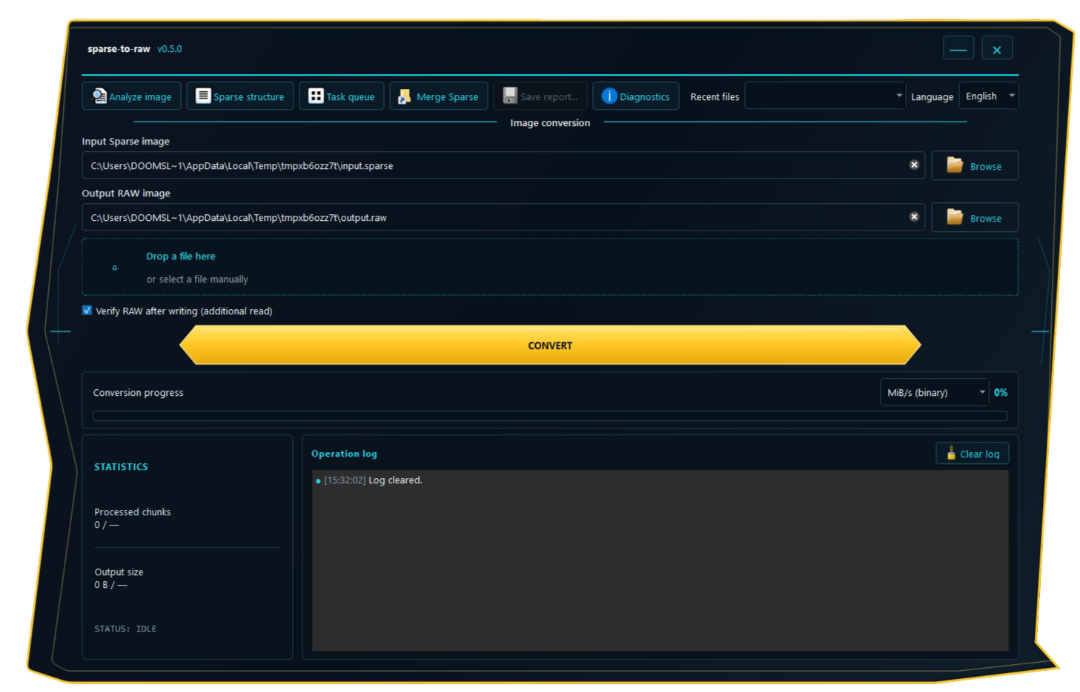
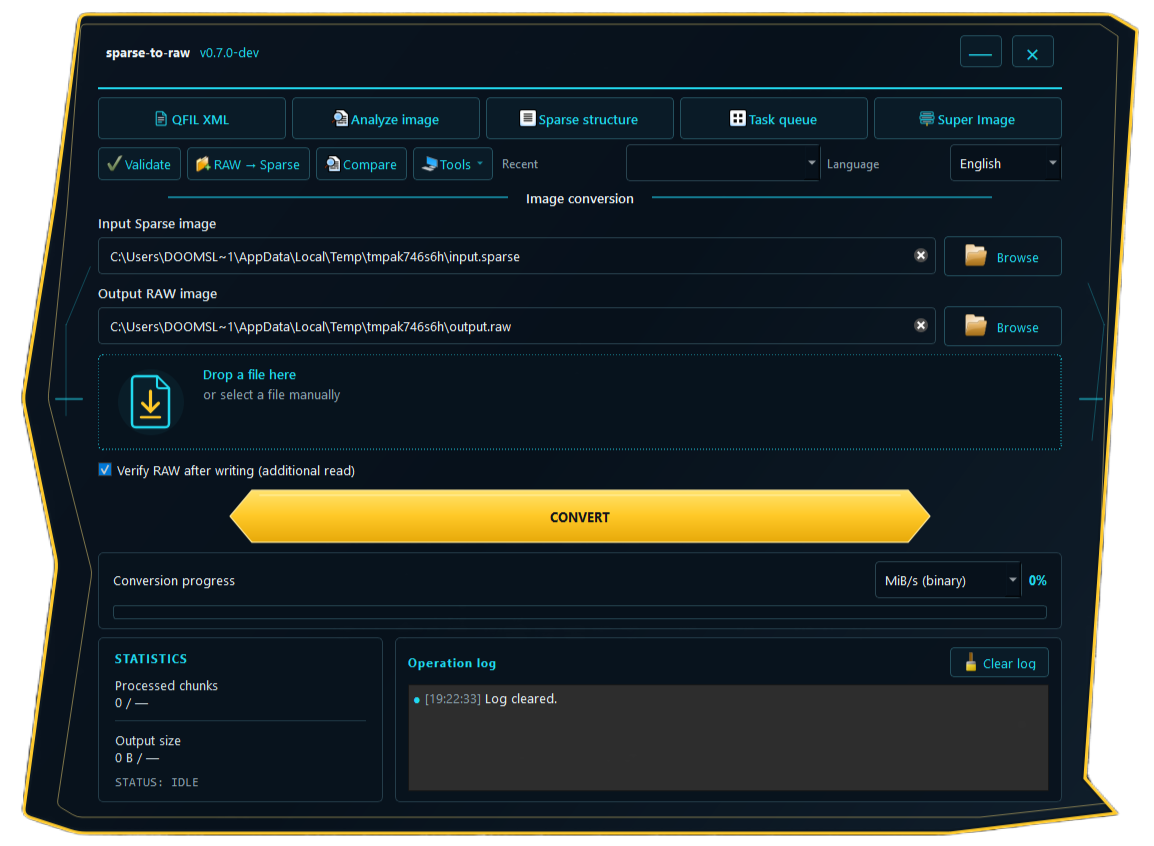
Restore and sync Russian project README

diff --git a/README.ru.md b/README.ru.md
@@ -1,46 +1,186 @@
-# Исправление CLI UTF-8 и GitHub Actions Node.js 24
+# sparse-to-raw
 
-Этот пакет рассчитан на текущую ветку `main` после добавления build-only режима Windows-сборки.
-Он содержит patch, а не полную копию проекта.
+Потоковая утилита для анализа Android Sparse Image v1 и преобразования Sparse-образов в логическое RAW-содержимое. Проект включает CLI на Python без сторонних зависимостей и графический интерфейс PySide6 для Windows.
 
-## Что исправлено
+[![Тесты](https://img.shields.io/github/actions/workflow/status/LIJTA3U/sparse-to-raw/tests.yml?branch=main&label=тесты)](https://github.com/LIJTA3U/sparse-to-raw/actions/workflows/tests.yml)
+[![Python 3.10+](https://img.shields.io/badge/Python-3.10%2B-3776AB?logo=python&logoColor=white)](https://www.python.org/)
+[![Лицензия MIT](https://img.shields.io/badge/license-MIT-green.svg)](LICENSE)
+[![CLI без зависимостей](https://img.shields.io/badge/CLI-зависимости%20не%20нужны-brightgreen.svg)](#требования)
 
-1. `sparse_to_raw.py`: до обработки аргументов CLI оба текстовых потока `stdout` и `stderr` переводятся на UTF-8 через `reconfigure()`. Это предотвращает `UnicodeEncodeError` при показе локализованной справки `argparse` в Windows-сборке, когда исходная кодировка потока — например, `cp1252`.
-2. Добавлен `tests/test_cli_console_encoding.py`: регрессионный тест имитирует потоки `cp1252` и проверяет вывод русской QFIL-справки.
-3. Во всех трёх workflow обновлены `actions/checkout` до v7 и `actions/setup-python` до v7.
-4. В Windows release workflow отложенные шаги публикации обновлены: `actions/github-script` до v8 и `softprops/action-gh-release` до v3.
+**Язык:** [Русский](README.ru.md) · [English](README.md)
 
-## Применение
+> **Статус: разработка v0.7.0; последняя стабильная версия — v0.6.0.** Побайтное сравнение с `simg2img.exe` выполнено на двух реальных заводских образах: `super.img` из прошивки Blackview и `userdata_exp.ai.img` из прошивки Google Pixel. В обоих случаях различий не обнаружено. Инструменты версии 0.7.0 дополнительно проверялись на реальных RAW- и Android Sparse-файлах `super.img` Blackview через CLI и GUI; SHA-256 извлечённых разделов совпали. Также проверен синтетический образ с несколькими extents. Эти проверки подтверждают отдельные сценарии, но не являются полной сертификацией всех форматов и прошивок.
 
-Распакуйте этот архив в любую временную папку. Откройте PowerShell в корне клонированного репозитория и выполните команды, указав путь к patch-файлу, если он находится не в текущем каталоге:
+## Возможности
+
+- Потоковое преобразование Android Sparse Image v1 в логическое RAW-содержимое и кодирование RAW-файлов в Android Sparse v1.0.
+- Поддержка чанков `RAW`, `FILL`, `DONT_CARE` и `CRC32`.
+- Проверка CRC32 каждого чанка, общей контрольной суммы образа, заголовков, размеров блоков и количества блоков, обрезанных данных и лишних байтов в конце. Отдельный Sparse Validator позволяет проверять образ без создания RAW-файла.
+- Анализ и проверка образа без преобразования (`--info`, `--verify-only`).
+- Защита существующих выходных файлов: по умолчанию перезапись запрещена, для неё требуется `--force`.
+- Отображение прогресса, скорости, объёма обработанных данных и количества чанков.
+- Необязательный расчёт SHA-256 логического RAW-содержимого и экспорт JSON-отчётов.
+- Проверка готового временного RAW повторным чтением и сравнением размера и SHA-256 с ожидаемым логическим содержимым (`--verify-output`).
+- Объединение независимых Sparse-образов в явно указанном порядке (`--merge-parts`).
+- Логическое сравнение RAW и/или Android Sparse без промежуточного RAW-файла (`compare`): поиск первого отличающегося байта и расчёт SHA-256 обоих логических содержимых.
+- Сохранение и загрузка версионированных JSON-профилей пакетной обработки для смешанных очередей Sparse → RAW, RAW → Sparse и QFIL.
+- Подробные JSON-отчёты о конвертации, проверке результата, валидации, сравнении, операциях QFIL и пакетной обработке.
+- Анализ Qualcomm QFIL `rawprogram*.xml` / `patch*.xml`, поиск файлов прошивки и сборка отдельного RAW-образа для каждого физического раздела (`qfil-analyze`, `qfil-validate`, `qfil-build`). Preflight проверяет исходные диапазоны и целостность Sparse без создания результатов; инструкции Patch анализируются и отображаются, но не исполняются.
+- Просмотр метаданных Android Verified Boot с помощью `vbmeta-info`: самостоятельный `vbmeta.img` или образ раздела с AVB footer, rollback index/location, флаги, отпечатки ключей и дескрипторы hash/hashtree/chain/property. Проверяется встроенный digest VBMeta, но не криптографическая подлинность RSA-подписи или доверие к ключу.
+- Анализ Android boot-образов командой `boot-info`: legacy boot headers v0–v2, generic boot headers v3–v4 и `vendor_boot` v3–v4. Отображаются размеры и смещения компонентов, сведения об ОС и командной строке, подсказки о сигнатурах сжатия Kernel/Ramdisk, DTB, recovery DTBO, таблица фрагментов vendor ramdisk и bootconfig. Инспектор не распаковывает компоненты и не проверяет AVB-подписи.
+- Инвентаризация CPIO внутри `boot`, `init_boot`, `recovery`, фрагментов `vendor_boot` v3/v4 и отдельных архивов через `ramdisk-info`; безопасное извлечение выбранных путей или всего архива через `ramdisk-extract`.
+- Ramdisk Inspector поддерживает CPIO newc/crc, проверку CRC, последовательные архивы, gzip/bzip2/XZ/LZMA-alone/LZ4 frame и legacy decompression, ограничение объёма распаковки, JSON-отчёты и безопасную проверку путей.
+- В GUI Ramdisk Inspector есть поиск по имени/пути, фильтры категорий, просмотр текста и HEX, выборочное извлечение файлов и папок, а также построчное сравнение двух конфигурационных файлов с подсветкой добавленных, удалённых и изменённых строк.
+- Просмотр метаданных Android Dynamic Partitions (`super-info`) и извлечение логических разделов из RAW/Sparse `super.img` (`super-extract`), включая проверку LP geometry/metadata SHA-256 и переход к резервной копии метаданных при необходимости.
+- Потоковая обработка больших образов без загрузки целого входного или выходного файла в память.
+- CLI использует только стандартную библиотеку Python.
+- GUI на PySide6: русский и английский языки, сохранение настроек и недавних файлов, логическое сравнение RAW/Sparse, анализ образов, последовательная очередь, визуальное изменение порядка частей, необязательная проверка выходного файла, Центр диагностики с поиском, постраничный просмотр структуры Sparse с потоковым экспортом CSV/JSON, диалоги Super Image, AVB/VBMeta, Boot Image и Ramdisk Inspector в меню «Инструменты», а также JSON-отчёты.
+
+Области `DONT_CARE` интерпретируются как нулевые байты. Логический размер и содержимое RAW корректны; файловая система может физически хранить нулевые области как разреженные участки.
+
+## Скачать для Windows
+
+**Последняя стабильная версия:** [sparse-to-raw v0.6.0](https://github.com/LIJTA3U/sparse-to-raw/releases/tag/v0.6.0). Windows-приложения собираются и прикрепляются к GitHub Release через Actions.
+
+В релизе доступны:
+
+- `sparse-to-raw-gui-windows.zip` — рекомендуемый пакет GUI. Распакуйте архив целиком и запускайте `sparse-to-raw-gui.exe` из папки приложения.
+- `sparse-to-raw-gui.exe` — автономный GUI в одном EXE.
+- `sparse-to-raw.exe` — автономная CLI-утилита.
+
+Для запуска готовых Windows-приложений конечному пользователю не нужно устанавливать Python. Для обычного использования рекомендуется ZIP-пакет GUI; сохраняйте структуру распакованной папки.
+
+## Графический интерфейс Windows
+
+GUI использует тёмную тему с угловой жёлтой рамкой и бирюзовыми акцентами. Поддерживаются перетаскивание файлов, статистика прогресса, журнал операций, сохранение настроек, история входных файлов и отображение скорости в МБ/с, МиБ/с или Мбит/с.
+
+![Главное окно sparse-to-raw GUI](docs/screenshots/main-window-ru.png)
+
+Панель инструментов разделена на два ряда: основные разделы находятся в первом, часто используемые действия — во втором, а редко используемые инструменты доступны через меню «Инструменты». **«Анализ образа»** проверяет метаданные без создания RAW-файла. **«Очередь задач»** последовательно обрабатывает несколько файлов и сохраняет JSON-сводку. **«Объединить Sparse»** позволяет изменить порядок независимых Sparse-образов перед объединением. Длительные операции конвертации и анализа выполняются в рабочих потоках Qt; отмена удаляет временный результат и сохраняет существующий выходной файл.
+
+В меню «Инструменты» находятся Super Image, AVB/VBMeta Inspector, Boot Image Inspector и Ramdisk Inspector. Последний позволяет просматривать содержимое ramdisk, извлекать выбранные элементы и сравнивать конфигурационные файлы непосредственно в GUI.
+
+См. [руководство по GUI](docs/ru/gui-guide.md), [инструкцию по установке Windows](docs/ru/installation.md), [руководство Super Image](docs/ru/super-image.md), [руководство AVB/VBMeta](docs/ru/avb-vbmeta.md), [руководство Boot Image](docs/ru/boot-image.md) и [руководство Ramdisk](docs/ru/ramdisk-inspector.md).
+
+## Быстрый старт (CLI)
+
+Для запуска из исходников требуется Python 3.10 или новее. CLI не требует сторонних Python-пакетов. По умолчанию используется английский язык; русский можно включить параметром `--lang ru` или переменной окружения `SPARSE_TO_RAW_LANG=ru`. Подробности приведены в [руководстве CLI](docs/ru/cli-guide.md).
 
 ```powershell
-git apply --check .\cli-utf8-and-node24.patch
-if ($LASTEXITCODE -ne 0) { throw "Patch check failed" }
-git apply .\cli-utf8-and-node24.patch
-if ($LASTEXITCODE -ne 0) { throw "Patch apply failed" }
+py sparse_to_raw.py input_sparse.img output_raw.img
 ```
 
-Затем проверьте:
+Если выходной файл уже существует, конвертация остановится, не изменив его. Для явного разрешения перезаписи:
 
 ```powershell
-py -m unittest discover -s tests -p "test_cli_console_encoding.py" -v
-py -m unittest discover -s tests -p "test_cli_i18n.py" -v
+py sparse_to_raw.py super.img super_raw.img --force
+```
+
+Проверить образ без конвертации:
+
+```powershell
+py sparse_to_raw.py super.img --info
+py sparse_to_raw.py super.img --verify-only
+```
+
+Рассчитать SHA-256 логического RAW-содержимого и сохранить отчёт:
+
+```powershell
+py sparse_to_raw.py super.img super_raw.img --sha256 --json-report report.json
+```
+
+Сравнить два образа по логическому содержимому (RAW и/или Android Sparse):
+
+```powershell
+py sparse_to_raw.py compare left.raw right.sparse --json-report comparison.json
+```
+
+Код завершения `0` означает совпадение логического содержимого, `1` — различие, `2` — ошибку входных файлов или сравнения. Промежуточный RAW-файл не создаётся.
+
+Объединить независимые Sparse-файлы в указанном порядке:
+
+```powershell
+py sparse_to_raw.py --merge-parts super.img_sparsechunk.0 super.img_sparsechunk.1 --output super_raw.img --sha256
+```
+
+Каждая часть должна быть самостоятельным корректным Sparse-образом с собственным заголовком. Режим не предназначен для произвольных байтовых фрагментов одного Sparse-файла. GUI умеет находить группы `super.img_sparsechunk.*` и сортировать части по числовым индексам; CLI принимает список в явно заданном порядке.
+
+Примеры команд для новых инспекторов:
+
+```powershell
+py sparse_to_raw.py qfil-validate rawprogram0.xml --search-dir firmware
+py sparse_to_raw.py super-info super.img --slot 0
+py sparse_to_raw.py super-extract super.img --output-dir extracted --partition system --partition vendor
+py sparse_to_raw.py vbmeta-info vbmeta.img --json-report vbmeta.json
+py sparse_to_raw.py boot-info boot.img --json-report boot.json
+py sparse_to_raw.py ramdisk-info boot.img --json-report ramdisk.json
+py sparse_to_raw.py ramdisk-extract boot.img --output-dir ramdisk-files --include init --include fstab.mt6765
+py sparse_to_raw.py raw-to-sparse system.raw system.sparse --block-size 4096 --sha256
+```
+
+Для Qualcomm-манифестов см. [руководство QFIL XML](docs/ru/qfil-xml.md). Для всех параметров CLI, примеров и кодов завершения см. [руководство CLI](docs/ru/cli-guide.md).
+
+## Документация
+
+- [Установка](docs/ru/installation.md)
+- [Руководство CLI](docs/ru/cli-guide.md)
+- [Поддержка Qualcomm QFIL XML](docs/ru/qfil-xml.md)
+- [Просмотр AVB / VBMeta](docs/ru/avb-vbmeta.md)
+- [Анализ Android Boot Image](docs/ru/boot-image.md)
+- [Анализ и извлечение Android Ramdisk](docs/ru/ramdisk-inspector.md)
+- [Просмотр и извлечение Super Image](docs/ru/super-image.md)
+- [Проверка выходного RAW](docs/ru/output-verification.md)
+- [Руководство по GUI](docs/ru/gui-guide.md)
+- [Очередь задач](docs/ru/task-queue.md)
+- [Центр диагностики](docs/ru/diagnostic-center.md)
+- [Просмотр структуры Sparse](docs/ru/sparse-structure-viewer.md)
+- [Разработка и упаковка](docs/ru/development.md)
+- [Чек-лист релиза v0.7.0](docs/ru/release-checklist.md)
+- [История изменений](docs/ru/changelog.md)
+- [Участие в разработке](docs/CONTRIBUTING.md)
+- [Политика безопасности](docs/SECURITY.md)
+- [Скриншоты](docs/screenshots/)
+
+## Текущая стабильная версия v0.6.0
+
+Стабильный релиз v0.6.0 включает преобразование RAW → Sparse, логическое сравнение RAW/Sparse без промежуточных RAW-файлов, отдельный Sparse Validator, повторно используемые JSON Batch Profiles, расширенную интеграцию QFIL, структурированные JSON-отчёты и автоматическую упаковку CLI/GUI для Windows. Работоспособность упакованного приложения была подтверждена на Windows-компьютере без установленного Python.
+
+Новые инспекторы и возможности, перечисленные выше как разработки v0.7.0, пока относятся к ветке разработки. Подробности: [история изменений](docs/ru/changelog.md).
+
+## Тесты
+
+Полный набор тестов запускается из корневой папки репозитория:
+
+```powershell
 py -m compileall -q .
-git diff --check
+py -m unittest discover -s tests -p "test_*.py" -v
+py tests\gui_smoke_tests.py
 ```
 
-Проверьте, что patch не создал конфликтов, затем сохраните изменения:
+Core-тесты покрывают типы чанков, контрольные суммы, повреждённые и обрезанные данные, безопасную запись, режимы анализа/проверки, объединение, SHA-256, JSON-отчёты, прогресс и отмену. Три небольшие синтетические фикстуры Super Image в `tests/fixtures/` (`super_multi_extent.img`, `expected_system.img`, `expected_vendor.img`) должны находиться в репозитории; CI отдельно проверяет их наличие.
 
-```powershell
-git status --short
-git add sparse_to_raw.py tests/test_cli_console_encoding.py .github/workflows/build-windows-release.yml .github/workflows/tests.yml .github/workflows/gui-tests.yml
-git commit -m "Fix UTF-8 output in packaged CLI"
-git push
-```
+Тесты Boot Image Inspector проверяют legacy и generic boot-заголовки, vendor_boot, таблицы фрагментов, границы секций и повреждённые заголовки. Тесты AVB и Dynamic Partitions проверяют соответствующие метаданные и сценарии извлечения. QFIL-тесты охватывают preflight без создания выходных файлов, диапазоны источников и CRC Sparse.
 
-После push повторно запустите **Build Windows applications** в режиме build-only (`source_ref=main`, `upload_to_release=false`, `release_tag` пустой). Smoke-test уже содержит проверку `--lang ru qfil-validate --help`.
+Тесты Ramdisk охватывают сжатие, CPIO newc/crc, выбор фрагментов vendor_boot, CRC архивов, последовательные архивы, безопасность путей, лимиты распаковки, извлечение, чтение нескольких файлов и классификацию построчных различий. GUI smoke tests охватывают диалоги инспекторов, сравнение конфигураций, очередь задач и упакованный self-test. GitHub Actions запускает core-тесты на Python 3.10–3.14 для Windows и Linux; GUI smoke tests запускаются на Windows и Linux с PySide6.
 
-## Примечание по Node.js warning
+## Ограничения и безопасность
 
-На дату подготовки пакет переводит `checkout`, `setup-python`, `github-script` и `action-gh-release` на версии с нативной поддержкой Node.js 24. `actions/upload-artifact@v4` оставлен без изменения: на момент подготовки у него нет опубликованной Node.js 24 runtime-версии, поэтому предупреждение для этого шага ещё может появиться, когда workflow дойдёт до загрузки Artifact. Оно не связано с ошибкой CLI и само по себе не означает провал сборки.
+- Проект не является официальной заменой AOSP `simg2img`; результаты независимого побайтного сравнения относятся только к двум перечисленным реальным образам и не являются широкой сертификацией устройств или прошивок.
+- `--merge-parts` предназначен только для независимых корректных Sparse v1. Он не разбирает Dynamic Partitions `super` и не восстанавливает произвольные наборы раздельных `super_*` файлов.
+- Super Image Inspector поддерживает LP metadata 10.0–10.2. Извлечение пока требует, чтобы линейные extents ссылались на block device index `0`; многокомпонентные retrofit-конфигурации и произвольные наборы `super_*` не поддерживаются.
+- Инструкции Patch в QFIL XML разбираются и попадают в отчёты, но не исполняются.
+- AVB/VBMeta Inspector не проверяет RSA-подписи, доверие к ключу или rollback-состояние устройства.
+- Boot Image Inspector показывает структуру и эвристические подсказки о формате компонентов, но не распаковывает kernel/ramdisk и не проверяет AVB-подписи.
+- Ramdisk Inspector распознаёт Zstandard и LZO/lzop, но не распаковывает их в сборке без сторонних зависимостей. Символические ссылки и специальные файловые узлы перечисляются в манифесте, а не создаются при извлечении.
+- Утилита работает только с файлами. Она не взаимодействует с телефонами, не разблокирует загрузчики и не прошивает разделы устройств.
+- Проверяйте критически важные результаты независимо перед использованием в рабочих сценариях с прошивками.
+
+## Ссылки
+
+- [AOSP `sparse_format.h`](https://android.googlesource.com/platform/system/core/+/refs/heads/main/libsparse/include/sparse/sparse_format.h)
+- [AOSP `sparse_read.cpp`](https://android.googlesource.com/platform/system/core/+/refs/heads/main/libsparse/sparse_read.cpp)
+- [AOSP `simg2img.cpp`](https://android.googlesource.com/platform/system/core/+/refs/heads/main/libsparse/simg2img.cpp)
+
+## Лицензия
+
+[MIT](LICENSE).
